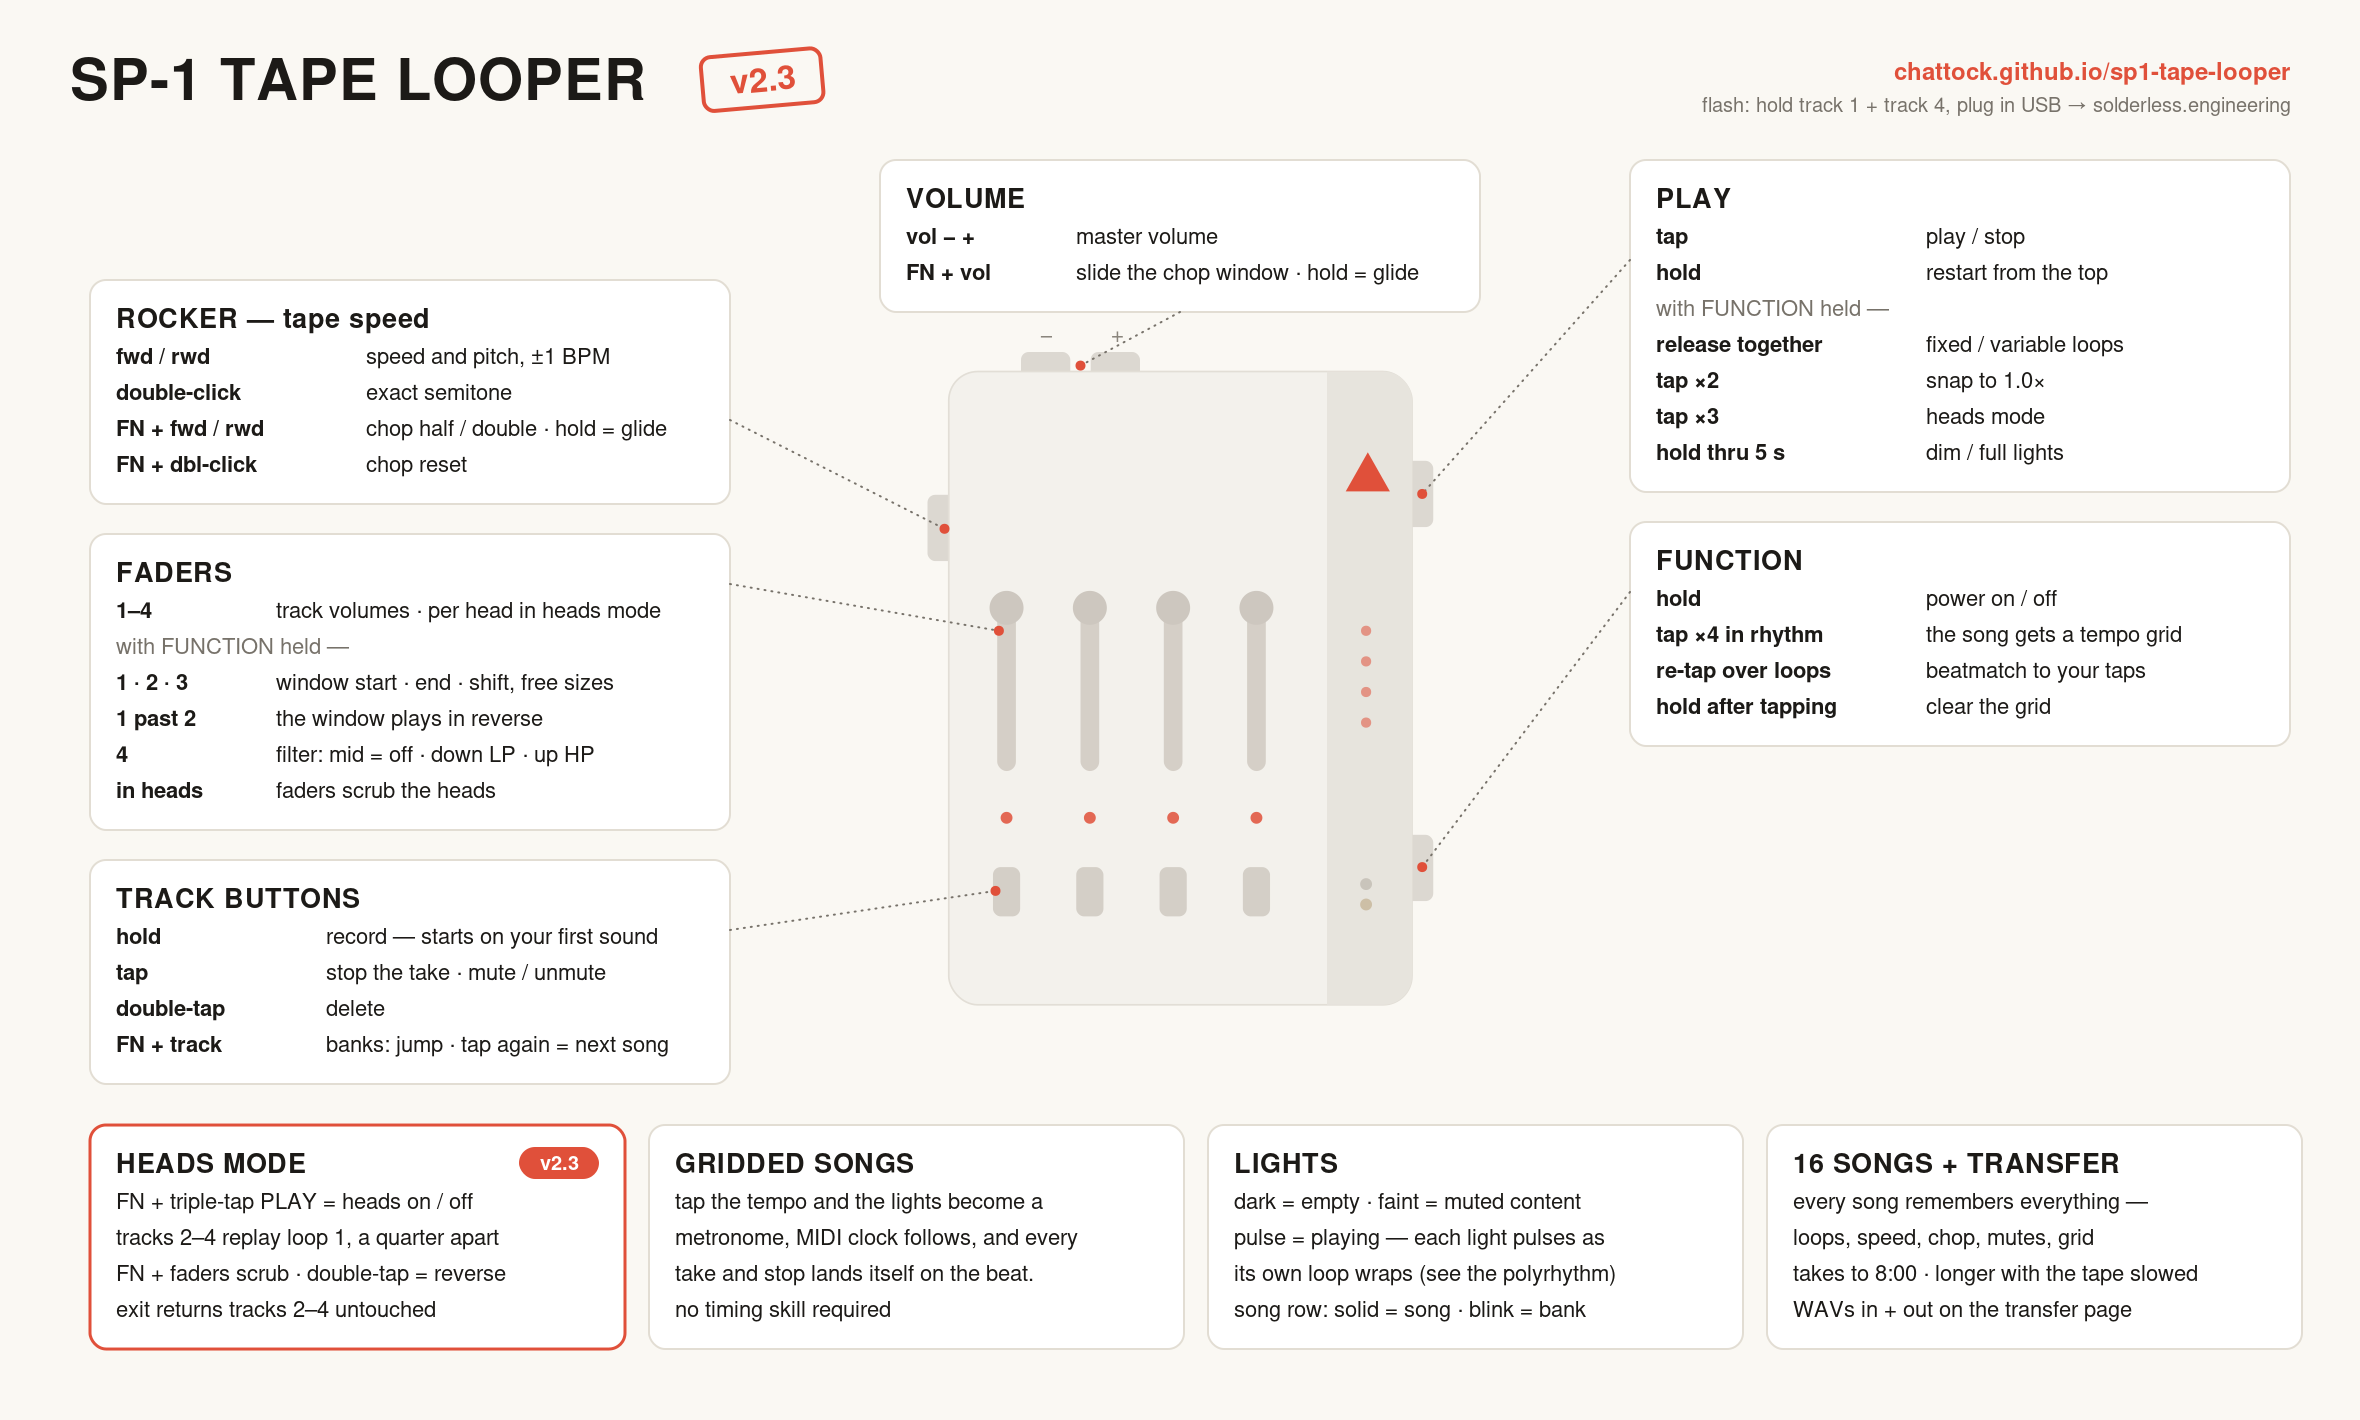
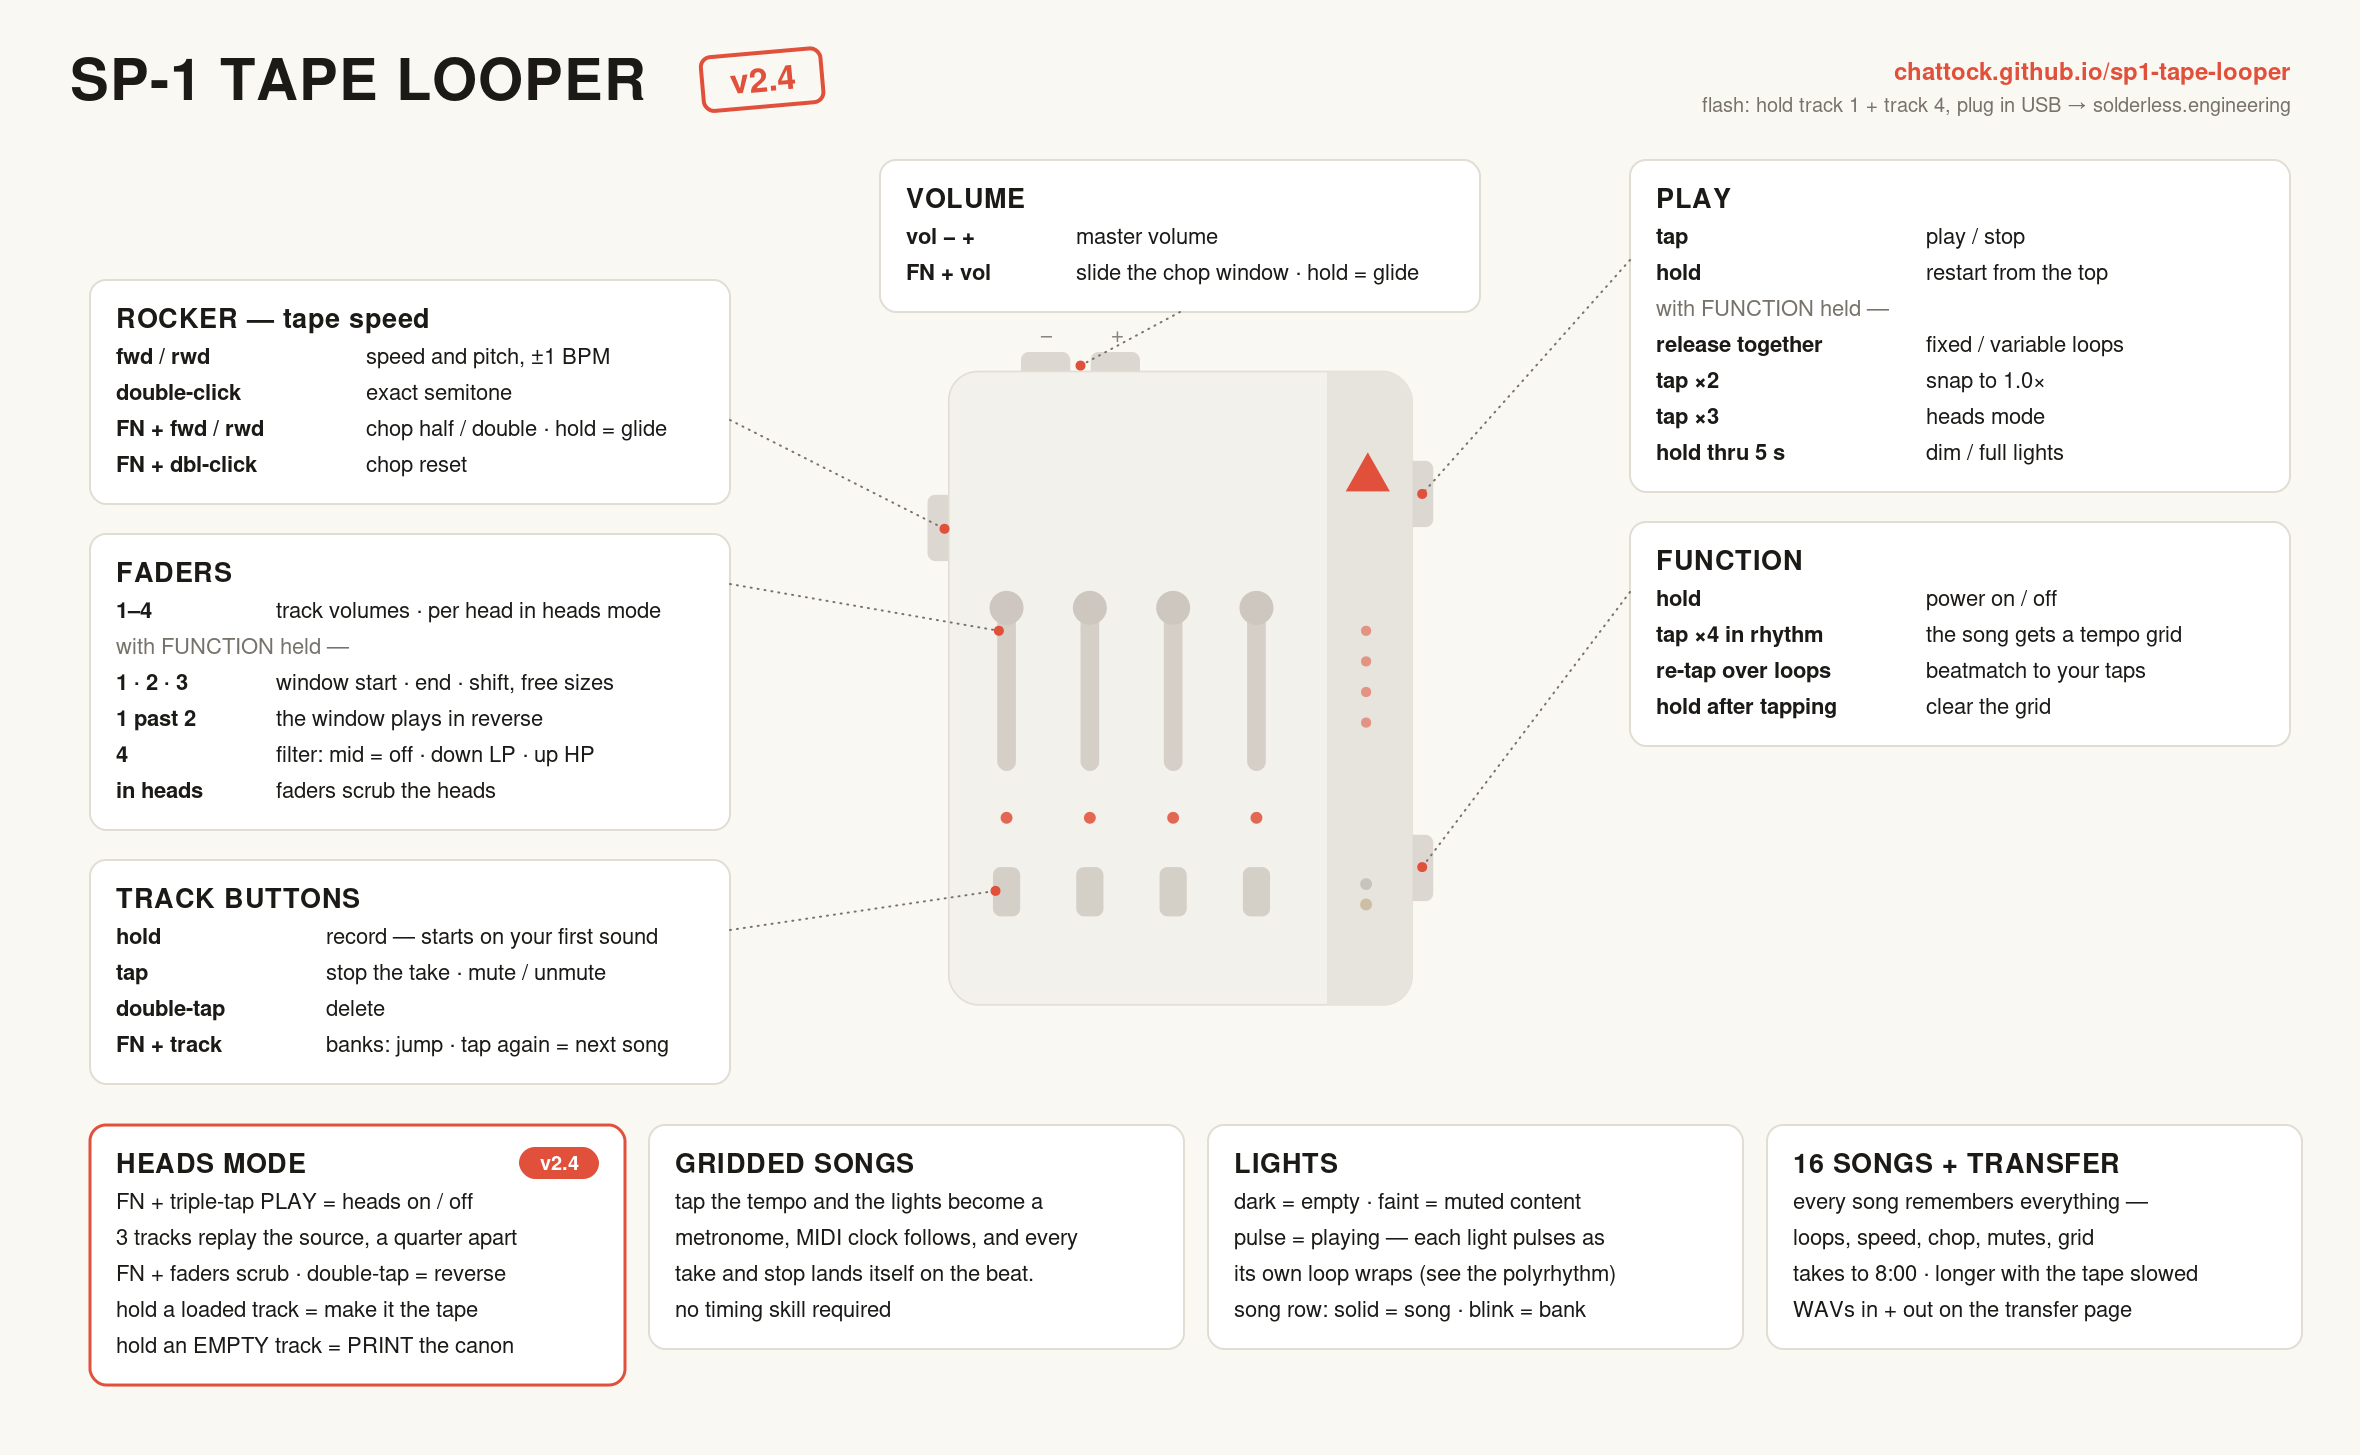
docs: v2.4.0 — the resample release (+ v2.4 control map)

diff --git a/README.md b/README.md
@@ -252,10 +252,26 @@ The one-page map ([full size](docs/sp1-control-map.png)):
   track slices its own length.
 
 ### Heads mode (FUNCTION + triple-tap PLAY)
-- With track 1 playing, hold FUNCTION and **triple-tap PLAY**: tracks 2–4
-  stop playing their own loops and become three extra **tape heads on
-  track 1's loop**, offset by quarters of its cycle — the same audio in
-  four phases, like a canon.
+- With a loop playing, hold FUNCTION and **triple-tap PLAY**: the other
+  three tracks stop playing their own loops and become three extra **tape
+  heads on the source loop**, offset by quarters of its cycle — the same
+  audio in four phases, like a canon. The source is the lowest playing
+  unmuted track; **hold any loaded track (~0.4 s) to make IT the tape**
+  instead — your head positions and directions carry over.
+- Every head starts audible (the song's mutes are set aside while heads
+  mode runs, and restored exactly when you leave); taps mute heads freely
+  without touching the song's saved mutes.
+- **The bounce**: hold an **empty** track (~0.4 s) and the whole heads
+  performance prints into it as one seamless loop — positions,
+  directions, levels, window, reverses, all baked. The track fast-blinks
+  for a few seconds while it prints, then heads mode exits by itself with
+  the new loop playing, in phase with its source. It's an exact render of
+  one audible cycle, not a recording — your live filter and tape speed
+  stay live on top. Then re-enter heads, hold the print to make it the
+  tape, and go again.
+- The lights tell you what's what: a head with a loop underneath chases
+  at full brightness (holdable as a source); a hollow head chases faintly
+  (a print target).
 - Each head has its own fader and mute (tap tracks 2–4). The four lights
   chase in sequence, matching what you hear. Chop applies to all four heads
   at once — shrink the window and the whole canon tightens.

diff --git a/CHANGELOG.md b/CHANGELOG.md
@@ -5,6 +5,36 @@ Versions 1.0.0-1.2.4 below were the 2.0 development line (developed as a
 fork by marc, never announced) — kept for the honest record. The classic
 4-song firmware lives on the `v1` branch. Base: 1.x at commit c60941c.
 
+## [2.4.0] - 2026-07-27
+
+The resample release — heads mode learns to print.
+
+### Added
+- The BOUNCE: in heads mode, hold an EMPTY track (~0.4 s) and the whole
+  heads performance — positions, directions, per-head levels and mutes,
+  the window, reversed or not — prints into it as ONE loop. It is not a
+  recording: it's an offline render of exactly one audible cycle, so the
+  seam is perfect by construction and the print lands IN PHASE with its
+  source. The destination fast-blinks while it prints (a few seconds),
+  then heads mode exits by itself with the new loop playing — you hear
+  exactly what you just built. Print it, re-head it, print again: the
+  resample spiral. (Live filter sweeps and tape speed are NOT baked in —
+  they stay live tools on top of the print, like on any track.)
+- Heads on ANY track: the triple-tap engages on the lowest playing
+  unmuted track, and holding any LOADED track inside heads mode makes IT
+  the tape (your head positions and directions carry over).
+- You can see what's printable: a head with nothing underneath chases at
+  a faint ghost intensity — faint = empty = a bounce target; full bright
+  = loaded = a source you can grab.
+
+### Changed
+- Heads-mode mutes are performance state now: entering heads un-mutes all
+  four heads (a muted track no longer sits silent in the canon), taps
+  mute freely without ever touching the song's saved mutes, and the
+  original mutes return exactly on exit.
+- The muted-track ghost glow is a touch fainter in dim mode, so muted
+  reads clearly darker than playing; full-brightness mode is unchanged.
+
 ## [2.3.1] - 2026-07-26
 
 ### Fixed
